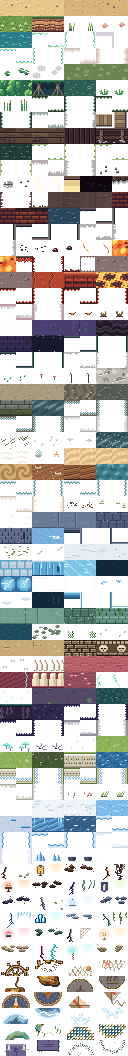
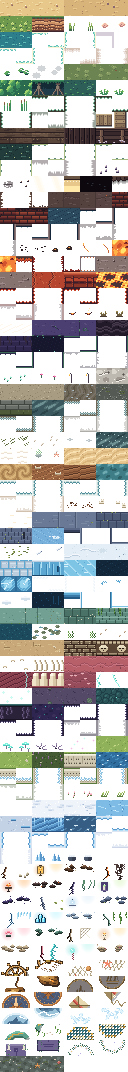
The great ebb: holding the tide out bares the sea bed
A new layout tile (;) lies under water whatever the tide's breathing
does; only a tide Wren holds out at a Tidestone drains it, tile by tile
from the shore. Out on it: a cache on Weir Steps, the Ebb Shelf south of
Belfry Square, and Ebb Grotto beyond it. The map keeps the Shelf hidden
until the sea bed is bare, frost can't freeze a path to it, and the route
check gates it on the Old One turning over. SHOTS_ONLY=ebb shoots it.

Claude-Session: https://claude.ai/code/session_01UYEn5XZXkHTUvmfLbrhNvJ

diff --git a/tools/verge_art.py b/tools/verge_art.py
@@ -70,6 +70,49 @@ def flat_tile(seed):
     return px
 
 
+SEABED = [hex_color(c) for c in ("#8A9690", "#6E7A74", "#58625C", "#48504A", "#363C38", "#262A28")]
+ANEMONE = [hex_color(c) for c in ("#E89A8A", "#C46A62", "#8E4646")]
+
+
+def seabed_tile(seed):
+    """The sea bed (layout ;), bared only when Wren holds the tide out:
+    darker and greener than the flats, never dried by the sun, strewn
+    with wrack, shells and, here and there, a closed-up anemone."""
+    rnd = random.Random(5250 + seed)
+    px = blank(SEABED[2])
+    for y in range(T):
+        for x in range(T):
+            v = math.sin(x * 0.7 + y * 0.45 + seed * 2.1) + math.sin(y * 0.9 - x * 0.3 + seed)
+            if v > 1.1:
+                px[y][x] = SEABED[1]
+            elif v < -1.2:
+                px[y][x] = SEABED[3]
+    # Wrack strands lying the way the water left.
+    for _ in range(2):
+        x, y = rnd.randrange(1, 12), rnd.randrange(2, 14)
+        for i in range(rnd.randrange(3, 6)):
+            if x + i < T:
+                px[y - (i // 2) % 2][x + i] = WEED[2 if i % 2 else 1]
+    # Small shells and pale grit.
+    for _ in range(4):
+        x, y = rnd.randrange(T), rnd.randrange(T)
+        px[y][x] = SHELL[1]
+    if seed == 3:
+        # A closed anemone, wet and glossy.
+        cx, cy = 10, 5
+        for (dx, dy) in ((0, 0), (1, 0), (0, 1), (1, 1), (-1, 1), (2, 1), (0, 2), (1, 2)):
+            px[cy + dy][cx + dx] = ANEMONE[1]
+        px[cy][cx] = ANEMONE[0]
+        px[cy + 2][cx + 1] = ANEMONE[2]
+    elif seed == 2:
+        # A starfish.
+        cx, cy = 5, 9
+        for (dx, dy) in ((0, 0), (-1, 0), (-2, 0), (1, 0), (2, 0), (0, -1), (0, -2), (-1, 1), (-2, 2), (1, 1), (2, 2)):
+            px[cy + dy][cx + dx] = (214, 138, 74, 255)
+        px[cy][cx] = (240, 182, 112, 255)
+    return px
+
+
 def seawall_top(seed):
     """Wall top: the slumped stone of drowned houses, crusted with barnacles
     and draped in wrack."""
@@ -249,6 +292,13 @@ TILES = [
     ("cockle_0", lambda: cockles(0)), ("cockle_1", lambda: cockles(1)),
     ("glint_0", lambda: glint(0)), ("glint_1", lambda: glint(1)),
     ("tidewater_0", lambda: tidewater(0)), ("tidewater_1", lambda: tidewater(1)),
+]
+
+# The sea bed's tiles go at the end of the sheet (build_art.py adds them
+# last) so they don't move every tile after the Verge's.
+EBB_TILES = [
+    ("seabed_0", lambda: seabed_tile(0)), ("seabed_1", lambda: seabed_tile(1)),
+    ("seabed_2", lambda: seabed_tile(2)), ("seabed_3", lambda: seabed_tile(3)),
 ]
 
 # --------------------------------------------------------------------------

diff --git a/tools/world_rooms.py b/tools/world_rooms.py
@@ -26,7 +26,9 @@ Item gates (keep in step with the game):
   (Q and bow freezing arrive with the Hollow Glacier PR. Props block one
   tile here; their real footprints can be wider, which only makes this
   check more generous, never stricter.)
-  The Gale Bell turns the Old One over (old_one_turned): the Verge rises
+  The Gale Bell turns the Old One over (old_one_turned): the Verge rises,
+                   and Wren can hold the tide out at a Tidestone, which
+                   bares the sea bed (;)
   The seventh bell raises the Old One at Lullaby Point (alt_layout)
 """
 
@@ -78,6 +80,10 @@ SECRETS = {
     # Pacing finds in rooms that had nothing else (2026-11-10).
     (3, -2): ("kite_cloak", "frostfang_bow"), # Hollow Bole: glints on a pond islet
     (8, -1): ("stonebreaker",),               # Geyser Basin: glints behind a cracked boulder
+    # Out on the sea bed, bared only while Wren holds the tide out.
+    (2, 3): ("old_one_turned",),              # Weir Steps: glints on the sea bed
+    (1, 4): ("old_one_turned",),              # the Ebb Shelf, south of Belfry Square
+    (0, 4): ("old_one_turned",),              # Ebb Grotto, west of the Shelf
 }
 # Side areas' ways in: Rime Hollow under Frostspine's sea (1,-2) (freeze or
 # glide one tile of water), Glowworm Hollow below the Gloamfen (3,2) (veiled
@@ -161,6 +167,8 @@ def walkable(tile, items):
         return "glowmoth_lantern" in items
     if tile == "Y":
         return "stonebreaker" in items
+    if tile == ";":
+        return "old_one_turned" in items
     if tile in "^_":
         return False
     return True

diff --git a/tools/build_art.py b/tools/build_art.py
@@ -1073,6 +1073,8 @@ assert not _names & {n for n, _ in dungeon_deco_art.TILES}, "dungeon_deco_art re
 TILE_LAYOUT += dungeon_deco_art.TILES
 assert not {n for n, _ in TILE_LAYOUT} & {n for n, _ in dungeon_setpiece_art.TILES}, "dungeon_setpiece_art reuses tile names"
 TILE_LAYOUT += dungeon_setpiece_art.TILES
+assert not {n for n, _ in TILE_LAYOUT} & {n for n, _ in verge_art.EBB_TILES}, "verge_art.EBB_TILES reuses tile names"
+TILE_LAYOUT += verge_art.EBB_TILES
 
 
 def build_tiles():
